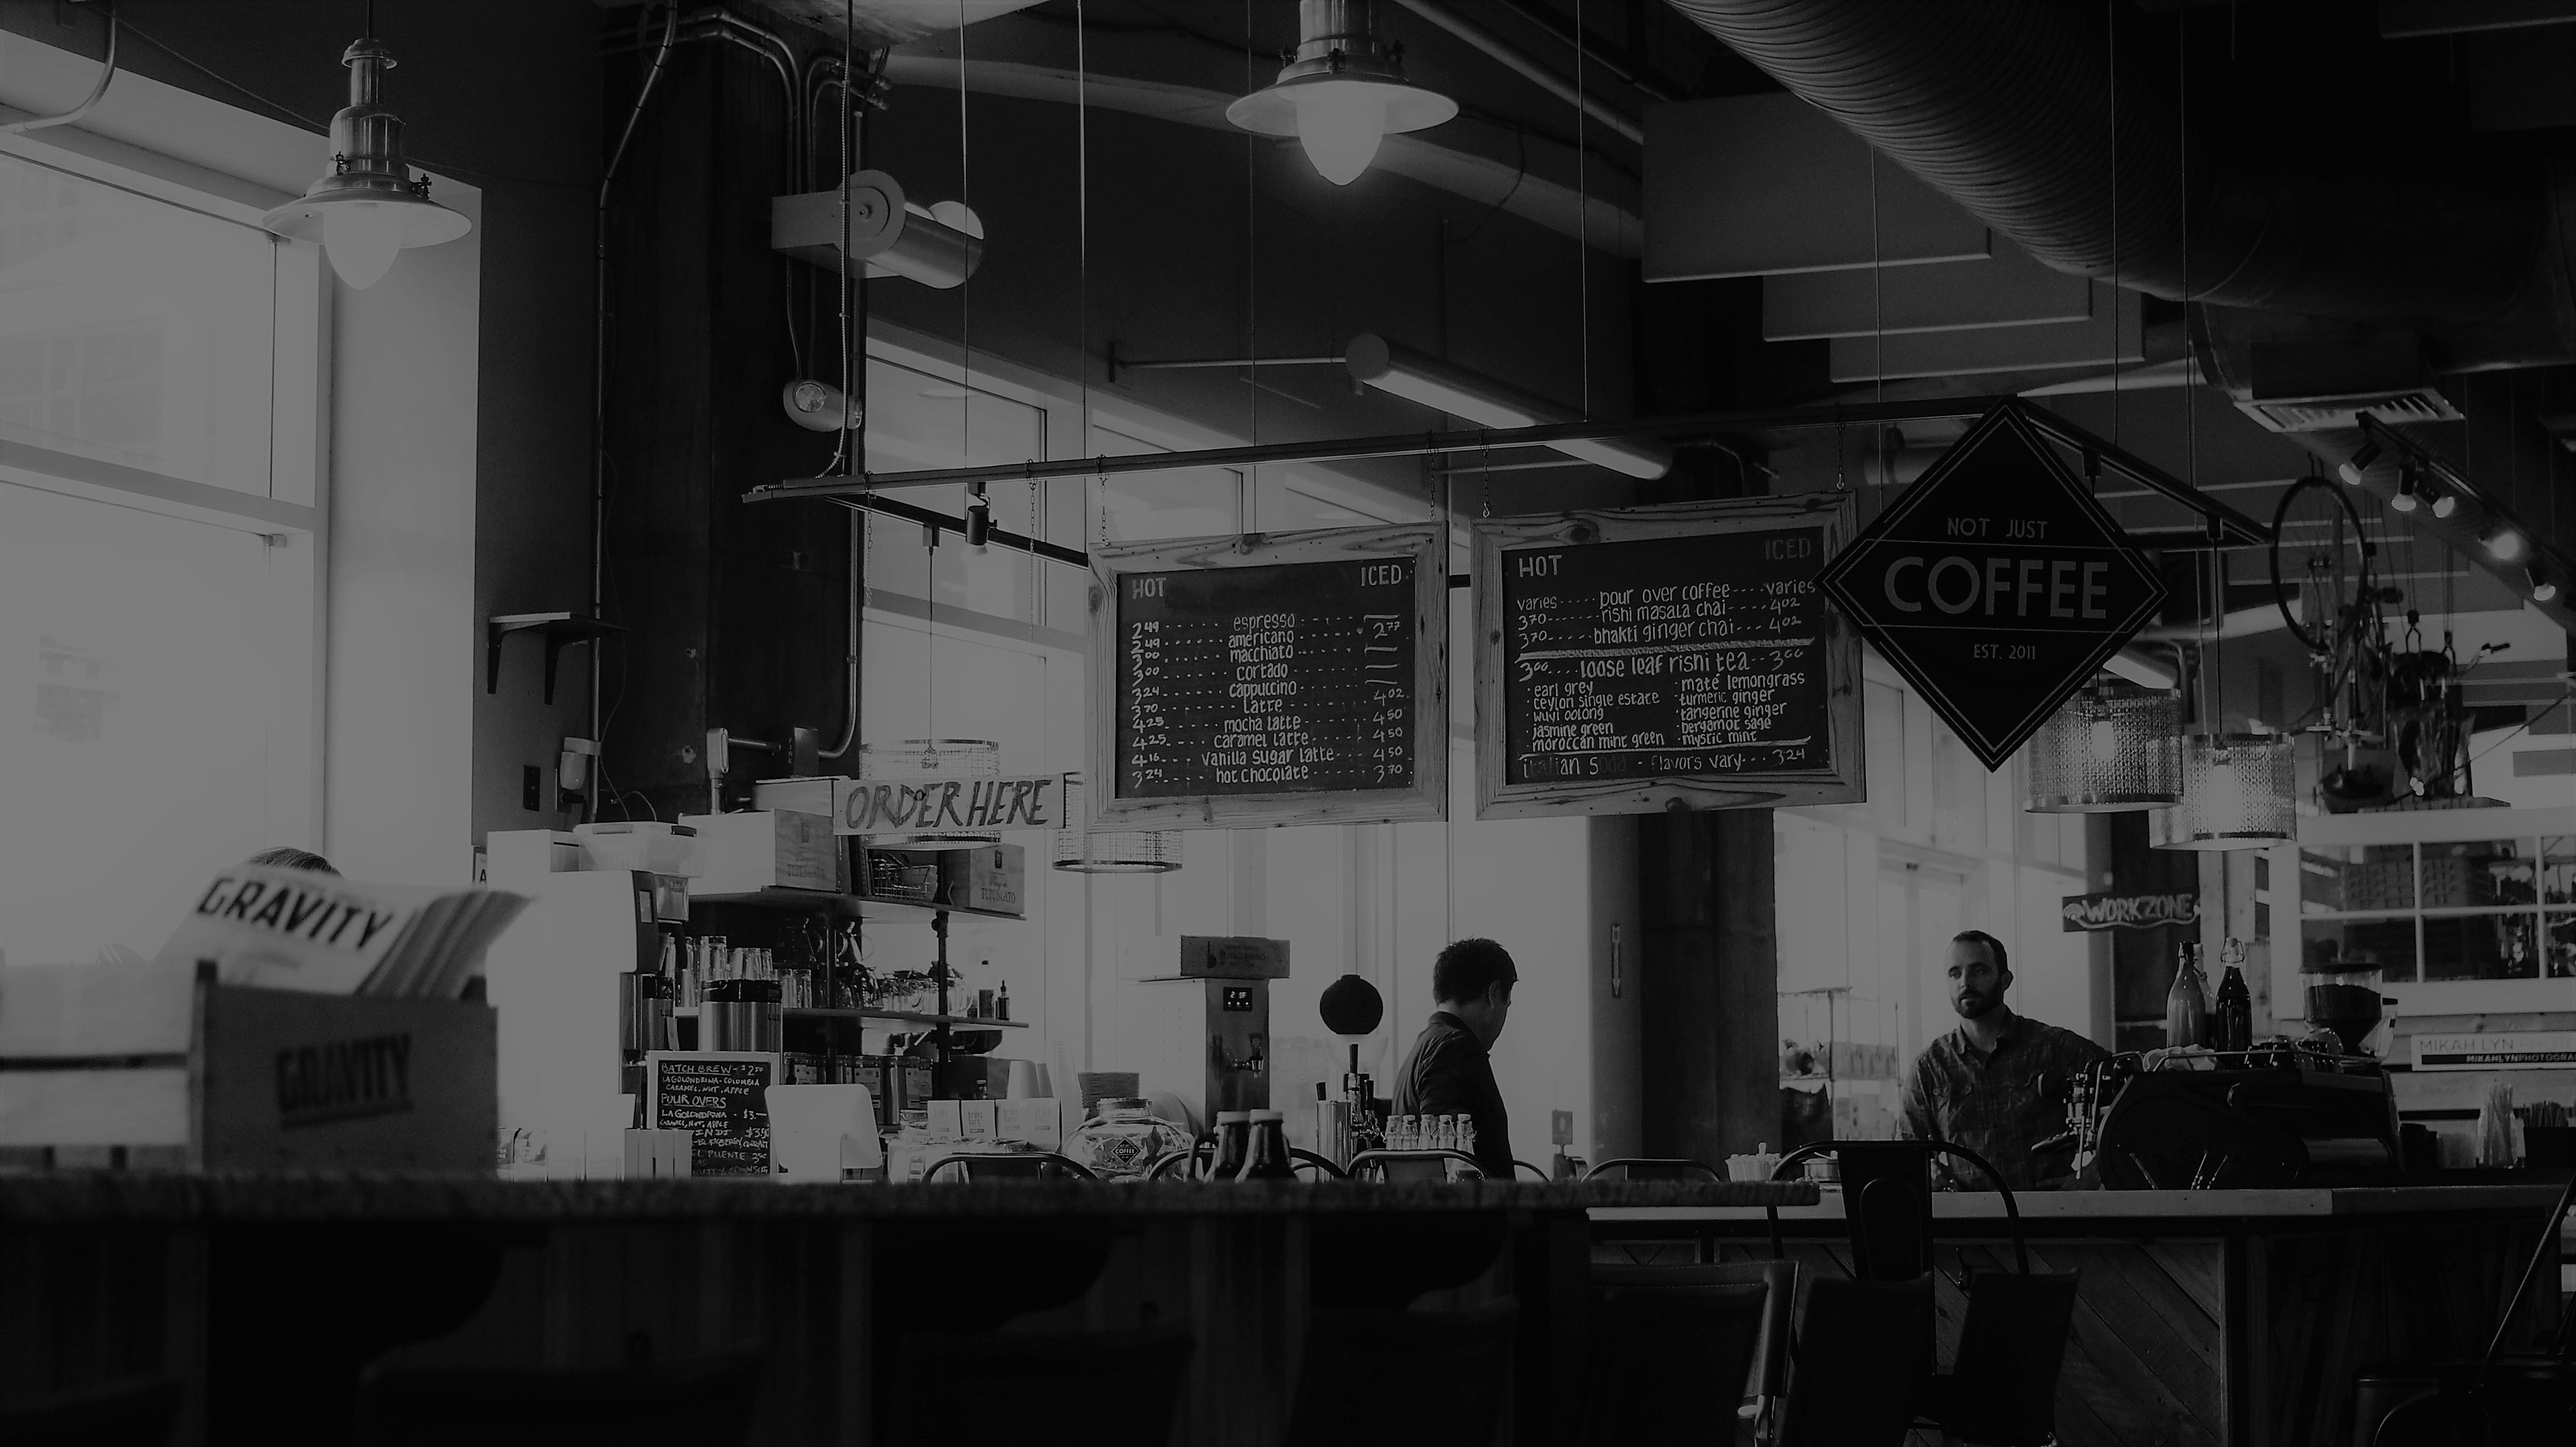
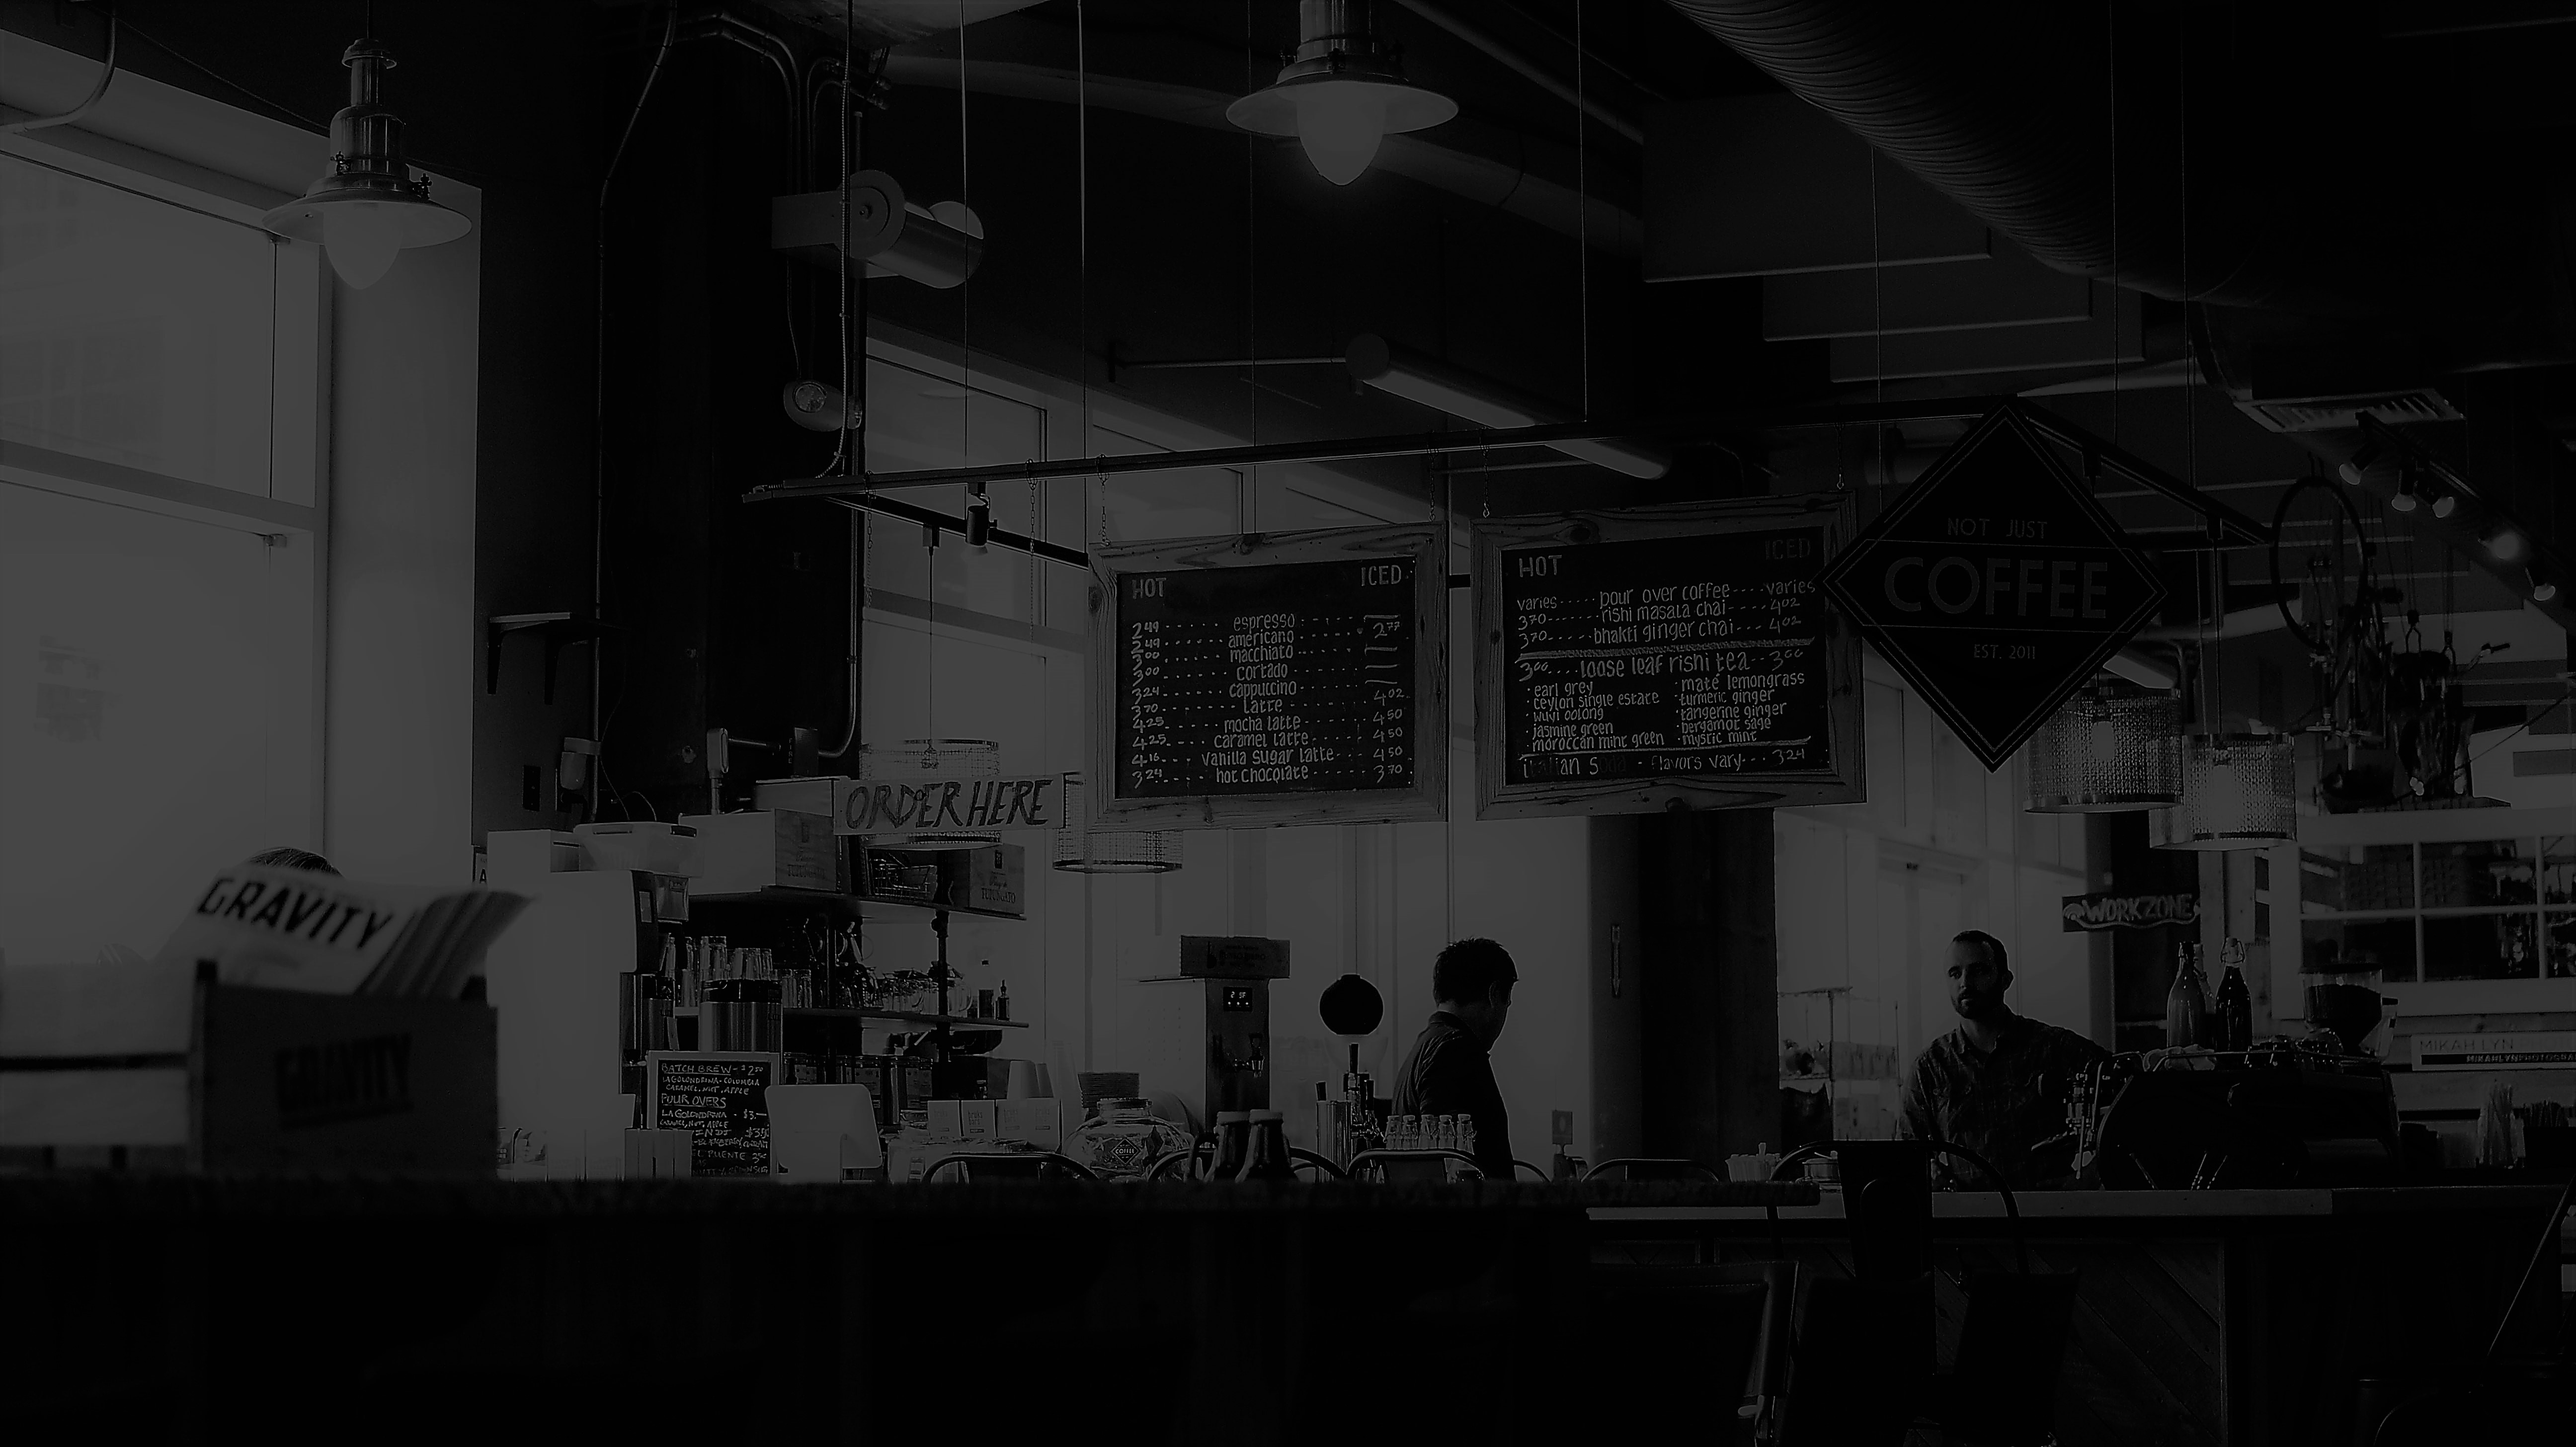
correciones visuales

diff --git a/css/stylepages.css b/css/stylepages.css
@@ -293,7 +293,7 @@ h1{
 
 .div10menu {
     grid-area: 3 / 2 / 4 / 3;
-    background-image: url(../img/product/10.jpg);
+    background-image: url(../img/product/14.jpg);
     background-repeat: no-repeat;
     background-size: cover;
     background-position: center;
@@ -329,7 +329,7 @@ h1{
 
 .div14menu {
     grid-area: 6 / 3 / 7 / 4;
-    background-image: url(../img/product/14.jpg);
+    background-image: url(../img/product/10.jpg);
     background-repeat: no-repeat;
     background-size: cover;
     background-position: center;
@@ -338,7 +338,7 @@ h1{
 
 .div15menu {
     grid-area: 6 / 4 / 7 / 5;
-    background-image: url(../img/product/15.jpg);
+    background-image: url(../img/product/16.jpg);
     background-repeat: no-repeat;
     background-size: cover;
     background-position: center;
@@ -347,7 +347,7 @@ h1{
 
 .div16menu {
     grid-area: 8 / 2 / 9 / 3;
-    background-image: url(../img/product/16.jpg);
+    background-image: url(../img/product/15.jpg);
     background-repeat: no-repeat;
     background-size: cover;
     background-position: center;
@@ -431,7 +431,7 @@ h1{
 
 .div1 {
     grid-area: div1;
-    background-color: rgba(0, 0, 0, 0.5);
+    background-color: rgba(0, 0, 0, 0.70);
     display: flex;
     justify-content: center;
     align-items: center;
@@ -442,7 +442,7 @@ h1{
 
 .div2 {
     grid-area: div2;
-    background-color: rgba(0, 0, 0, 0.50);
+    background-color: rgba(0, 0, 0, 0.70);
     display: flex;
     justify-content: center;
     align-items: center;
@@ -453,7 +453,7 @@ h1{
 
 .div3 {
     grid-area: div3;
-    background-color: rgba(0, 0, 0, 0.50);
+    background-color: rgba(0, 0, 0, 0.70);
     display: flex;
     justify-content: center;
     align-items: center;
@@ -464,7 +464,7 @@ h1{
 
 .div4 {
     grid-area: div4;
-    background-color: rgba(0, 0, 0, 0.50);
+    background-color: rgba(0, 0, 0, 0.70);
     display: flex;
     justify-content: center;
     align-items: center;
@@ -701,7 +701,7 @@ h1{
         font-size: 3vh;
     }    
     .parent div {
-        height: 30vh;
+        height: 27vh;
         margin-bottom: 10px;
         max-width: 100%;
         max-height: 100%;

diff --git a/pages/menu.html b/pages/menu.html
@@ -87,7 +87,7 @@
             </div>
             <div class="div10menu">
                 <a href="#">
-                    <span>Green Coffee</span>
+                    <span>Ice Tea</span>
                 </a>
             </div>
             <div class="div11menu">
@@ -107,17 +107,17 @@
             </div>
             <div class="div14menu">
                 <a href="#">
-                    <span>Ice Tea</span>
+                    <span>Green Coffee</span>
                 </a>
             </div>
             <div class="div15menu">
                 <a href="#">
-                    <span>Avocado Toast</span>
+                    <span>Chocolate Cake</span>
                 </a>
             </div>
             <div class="div16menu">
                 <a href="#">
-                    <span>Chocolate Cake</span>
+                    <span>Avocado Toast</span>
                 </a>
             </div>
             <div class="div17menu">
